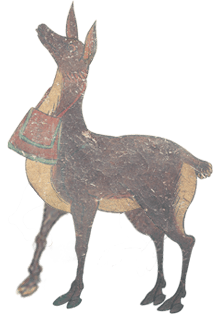
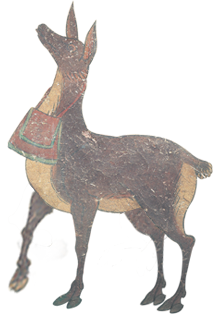
##

Changed region(s): [[0.0282, 0.6019, 0.338, 0.9459]]

diff --git a/css/index.css b/css/index.css
@@ -174,11 +174,11 @@ img{display: block; font-size: 0;}
 /*==part3==*/
 .part3{width: 100%; height: 310vw; background: url("../img/bg3.png") no-repeat top center; -webkit-background-size: 100% auto; background-size: 100% auto; margin-top: -20vw; padding-left: 62.23vw; padding-top: 77vw;}
 .part3-deer{width: 27.73vw; height: 41.87vw; }
-.part3-earLeft{width: 2.27vw; height: 5.73vw; position: absolute; top: 0; left: 9vw; background: url("../img/part3-earLeft.png") no-repeat; -webkit-background-size: 100% 100%; background-size: 100% 100%;
+.part3-earLeft{width: 2.27vw; height: 5.73vw; position: absolute; top: 0; left: 8vw; background: url("../img/part3-earLeft.png") no-repeat; -webkit-background-size: 100% 100%; background-size: 100% 100%;
     transform-origin: bottom center;
     animation: part3EarLeftMove 6s infinite linear 0s forwards;
 }
-.part3-earRight{width: 2vw; height: 5.73vw; position: absolute; top: 2.2vw; left: 11.4vw; background: url("../img/part3-earRight.png") no-repeat; -webkit-background-size: 100% 100%; background-size: 100% 100%; transform-origin: 0% 80%; transform: rotate(0deg);
+.part3-earRight{width: 2vw; height: 5.73vw; position: absolute; top: 2.2vw; left: 11vw; background: url("../img/part3-earRight.png") no-repeat; -webkit-background-size: 100% 100%; background-size: 100% 100%; transform-origin: 0% 80%; transform: rotate(0deg);
     animation: part3EarRightMove 6s infinite linear 0s forwards;
 }
 @-webkit-keyframes part3EarLeftMove {
@@ -188,6 +188,7 @@ img{display: block; font-size: 0;}
     6%{transform: rotate(-8deg);}
     8%{transform: rotate(2deg);}
     10%{transform: rotate(10deg);}
+    11%{transform: rotate(0deg);}
     100%{transform: rotate(0deg);}
 }
 @-webkit-keyframes part3EarRightMove {
@@ -197,76 +198,77 @@ img{display: block; font-size: 0;}
     6%{transform: rotate(8deg);}
     8%{transform: rotate(2deg);}
     10%{transform: rotate(10deg);}
+    11%{transform: rotate(0deg);}
     100%{transform: rotate(0deg);}}
 
-.part3-legs{position: absolute;  left: 5.2vw; top: 24vw; transform-origin: 10% 20%; transform: rotate(0deg);
+.part3-legs{position: absolute;  left: 3.5vw; top: 24vw; transform-origin: 50% 20%; transform: rotate(0deg); margin-top: -0.5vw;
     animation: part3bone1Move 6s infinite linear 0s forwards;
 }
 .part3-bone1{width: 4vw; height: 10.133vw;}
-.part3-legs2{margin-top: -4.6vw; margin-left: 0.3vw; transform-origin: 65% 16%; transform: rotate(-0deg);
+.part3-legs2{margin-top: -4.6vw; margin-left: 0vw; transform-origin: 65% 16%; transform: rotate(-0deg);
     animation: part3bone2Move 6s infinite linear 0s forwards;
 }
 .part3-bone2{width: 4.133vw; height: 9.6vw; }
-.part3-bone3{width: 3.2vw; height: 5.2vw; background: url("../img/part3-bone3.png") no-repeat; -webkit-background-size: 100% 100%; background-size: 100% 100%; margin-left: 0vw; margin-top: -5.4vw; transform-origin: center 20%;  transform: rotate(-0deg);
+.part3-bone3{width: 3.2vw; height: 5.2vw; background: url("../img/part3-bone3.png") no-repeat; -webkit-background-size: 100% 100%; background-size: 100% 100%; margin-left: -0.2vw; margin-top: -5.6vw; transform-origin: center 20%;  transform: rotate(-0deg);
     animation: part3bone3Move 6s infinite linear 0s forwards;
 }
 @-webkit-keyframes part3bone1Move {
     0%{transform: rotate(0deg);}
-    4.33%{transform: rotate(13deg);}
-    8.67%{transform: rotate(30deg);}
-    13%{transform: rotate(29deg);}
-    17.33%{transform: rotate(15deg);}
-    21.67%{transform: rotate(0deg);}
-    26%{transform: rotate(13deg);}
-    30.33%{transform: rotate(30deg);}
-    34.67%{transform: rotate(29deg);}
-    39%{transform: rotate(15deg);}
-    43.33%{transform: rotate(0deg);}
-    47.67%{transform: rotate(13deg);}
-    52%{transform: rotate(30deg);}
-    56.33%{transform: rotate(29deg);}
-    60.67%{transform: rotate(15deg);}
+    5%{transform: rotate(20deg);}
+    15%{transform: rotate(31deg);}
+    20%{transform: rotate(17deg); }
+    25%{transform: rotate(0deg);}
+    30%{transform: rotate(20deg);}
+    35%{transform: rotate(31deg);}
+    40%{transform: rotate(17deg);}
+    45%{transform: rotate(0deg);}
+    50%{transform: rotate(20deg);}
+    55%{transform: rotate(31deg);}
+    60%{transform: rotate(17deg);}
     65%{transform: rotate(0deg);}
+    /*56.33%{transform: rotate(29deg);}*/
+    /*60.67%{transform: rotate(15deg);}*/
+    /*65%{transform: rotate(0deg);}*/
     100%{transform: rotate(0deg);}
 }
 @-webkit-keyframes part3bone2Move {
     0%{transform: rotate(0deg);}
-    4.33%{transform: rotate(-30deg);}
-    8.67%{transform: rotate(-26deg);}
-    13%{transform: rotate(-15deg);}
-    17.33%{transform: rotate(0deg);}
-    21.67%{transform: rotate(0deg);}
-    26%{transform: rotate(-30deg);}
-    30.33%{transform: rotate(-26deg);}
-    34.67%{transform: rotate(-15deg);}
-    39%{transform: rotate(0deg);}
-    43.33%{transform: rotate(0deg);}
-    47.67%{transform: rotate(-30deg);}
-    52%{transform: rotate(-26deg);}
-    56.33%{transform: rotate(-15deg);}
-    60.67%{transform: rotate(0deg);}
+    5%{transform: rotate(-28deg);}
+    15%{transform: rotate(-3deg);}
+    20%{transform: rotate(-5deg);}
+
+    25%{transform: rotate(0deg);}
+    30%{transform: rotate(-28deg);}
+    35%{transform: rotate(-3deg);}
+    40%{transform: rotate(-5deg);}
+    45%{transform: rotate(0deg);}
+    50%{transform: rotate(-28deg);}
+    55%{transform: rotate(-3deg);}
+    60%{transform: rotate(-5deg);}
     65%{transform: rotate(0deg);}
+    /*56.33%{transform: rotate(29deg);}*/
+    /*60.67%{transform: rotate(15deg);}*/
+    /*65%{transform: rotate(0deg);}*/
     100%{transform: rotate(0deg);}
 }
 @-webkit-keyframes part3bone3Move {
     0%{transform: rotate(0deg);}
-    4.33%{transform: rotate(-3deg);}
-    8.67%{transform: rotate(-59deg);}
-    13%{transform: rotate(-3deg); }
-    17.33%{transform: rotate(0deg);}
-    21.67%{transform: rotate(0deg);}
+    5%{transform: rotate(-61deg);}
+    15%{transform: rotate(-44deg);}
+    20%{transform: rotate(-2deg);}
 
-    26%{transform: rotate(-3deg);}
-    30.33%{transform: rotate(-59deg)}
-    34.67%{transform: rotate(-3deg);}
-    39%{transform: rotate(0deg);}
-    43.33%{transform: rotate(0deg);}
-
-    47.67%{transform: rotate(-3deg);}
-    52%{transform: rotate(-59deg)}
-    56.33%{transform: rotate(-3deg);}
-    60.67%{transform: rotate(0deg);}
+    25%{transform: rotate(0deg);}
+    30%{transform: rotate(-61deg);}
+    35%{transform: rotate(-44deg);}
+    40%{transform: rotate(-2deg);}
+    45%{transform: rotate(0deg);}
+    50%{transform: rotate(-61deg);}
+    55%{transform: rotate(-44deg);}
+    60%{transform: rotate(-2deg);}
     65%{transform: rotate(0deg);}
+    /*56.33%{transform: rotate(29deg);}*/
+    /*60.67%{transform: rotate(15deg);}*/
+    /*65%{transform: rotate(0deg);}*/
     100%{transform: rotate(0deg);}
 }
 .part3-body{width: 100%; position: absolute; left: 0; top: 0;}
@@ -280,7 +282,7 @@ img{display: block; font-size: 0;}
 .part4{width: 100%; height: 138.53vw; background: url("../img/bg4.png") no-repeat top center;
     -webkit-background-size: 100% auto;
     background-size: 100% auto; margin-top: -174vw;}
-.part4.show .part4-fish{animation: part4WaterShow 0.5s 1 ease-out 0.1s forwards; }
+.part4.show .part4-fish{animation: part4WaterShow 0.5s 1 ease-out 0.3s forwards; }
 .part4.show .part4-water{animation: part4WaterShow 0.5s 1 ease-out 0s forwards;}
 
 .part4-fish{width: 31.6vw; height: 32.53vw; background: url("../img/part4-fish.png") no-repeat left bottom; position: absolute; left: 0; top: 35vw;
@@ -360,7 +362,7 @@ background-size: 0%;  }
 .part7-bird.move{animation: part7BirdMove 6s ease-out 0s 1 forwards;}
 @-webkit-keyframes part7BirdMove {
     0%{}
-    100%{width: 47.2vw; height: 38.4vw; top: 44vw; left: 48vw;}
+    100%{width: 40vw; height: 32.54vw; top: 44vw; left: 48vw;}
 }
 .part7-cloudB{width: 68.67vw; height: 16.3vw; background: url("../img/part7-cloudB.png") no-repeat left bottom;
     -webkit-background-size: 100% auto;
